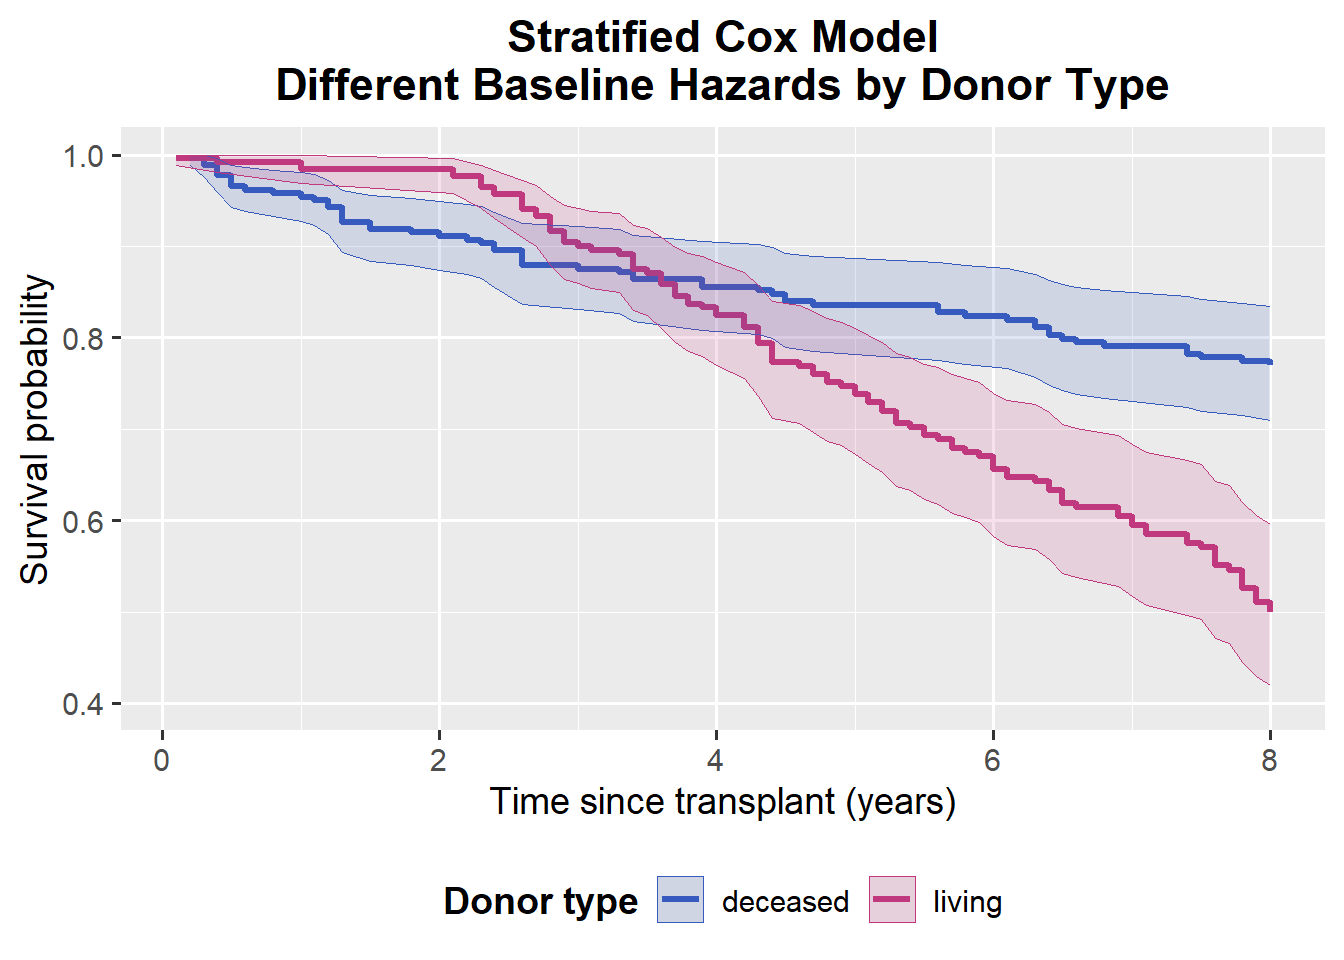
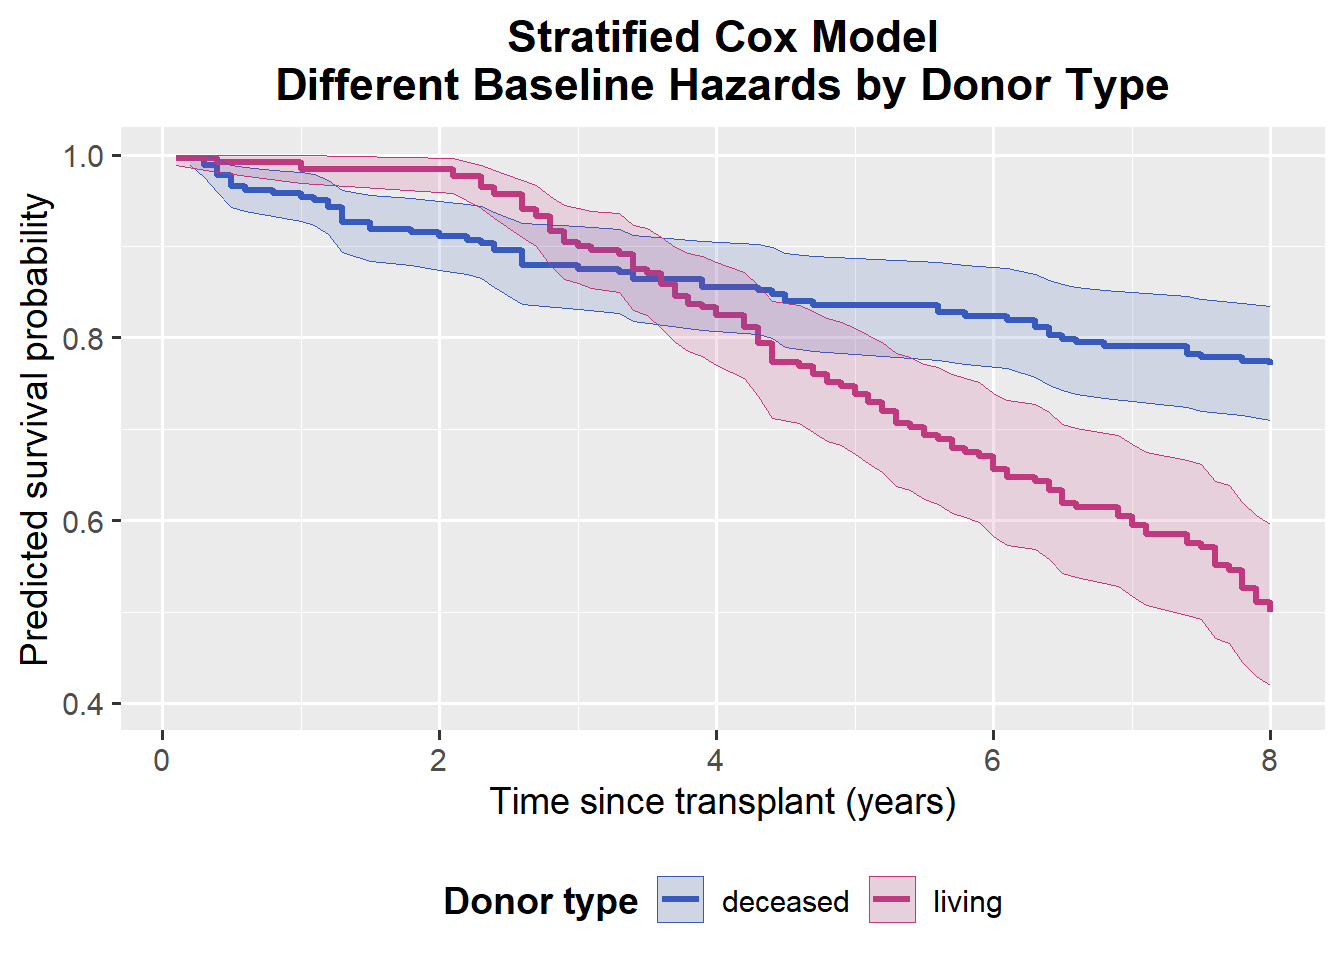
Complete Lecture 3

Changed region(s): [[0.0, 0.1875, 0.0625, 0.6875]]

diff --git a/docs/lecture-03-non-ph-cox.html b/docs/lecture-03-non-ph-cox.html
@@ -359,7 +359,7 @@ Note
 <section id="example-handling-non-proportional-hazards-using-stratified-cox-model" class="level2" data-number="5">
 <h2 data-number="5" class="anchored" data-anchor-id="example-handling-non-proportional-hazards-using-stratified-cox-model"><span class="header-section-number">5</span> Example: Handling Non-Proportional Hazards Using Stratified Cox Model</h2>
 <p>We are interested in whether time to graft failure after kidney transplantation differs by donor type (living vs deceased), after adjusting for important clinical factors.</p>
-<p>We begin by fitting a standard Cox proportional hazards model, then check the PH assumption. If the PH assumption is violated for donor type, we refit the model using stratification by donor type.</p>
+<p>We begin by fitting a standard Cox proportional hazards model, then check the PH assumption. If the PH assumption is violated for any categorical covariate in the model, we refit the model using stratification by that covariate.</p>
 <div class="cell">
 <details class="code-fold">
 <summary>Show R code</summary>
@@ -556,7 +556,7 @@ What about donor type?
 <span id="cb6-27"><a href="#cb6-27" aria-hidden="true" tabindex="-1"></a>  <span class="fu">labs</span>(</span>
 <span id="cb6-28"><a href="#cb6-28" aria-hidden="true" tabindex="-1"></a>    <span class="at">title =</span> <span class="st">"Stratified Cox Model</span><span class="sc">\n</span><span class="st">Different Baseline Hazards by Donor Type"</span>,</span>
 <span id="cb6-29"><a href="#cb6-29" aria-hidden="true" tabindex="-1"></a>    <span class="at">x =</span> <span class="st">"Time since transplant (years)"</span>,</span>
-<span id="cb6-30"><a href="#cb6-30" aria-hidden="true" tabindex="-1"></a>    <span class="at">y =</span> <span class="st">"Survival probability"</span>,</span>
+<span id="cb6-30"><a href="#cb6-30" aria-hidden="true" tabindex="-1"></a>    <span class="at">y =</span> <span class="st">"Predicted survival probability"</span>,</span>
 <span id="cb6-31"><a href="#cb6-31" aria-hidden="true" tabindex="-1"></a>    <span class="at">colour =</span> <span class="st">"Donor type"</span>,</span>
 <span id="cb6-32"><a href="#cb6-32" aria-hidden="true" tabindex="-1"></a>    <span class="at">fill   =</span> <span class="st">"Donor type"</span></span>
 <span id="cb6-33"><a href="#cb6-33" aria-hidden="true" tabindex="-1"></a>  ) <span class="sc">+</span></span>
@@ -1302,7 +1302,7 @@ window.document.addEventListener("DOMContentLoaded", function (event) {
 <span id="cb8-122"><a href="#cb8-122" aria-hidden="true" tabindex="-1"></a></span>
 <span id="cb8-123"><a href="#cb8-123" aria-hidden="true" tabindex="-1"></a></span>
 <span id="cb8-124"><a href="#cb8-124" aria-hidden="true" tabindex="-1"></a>We begin by fitting a standard Cox proportional hazards model, then check the PH assumption.</span>
-<span id="cb8-125"><a href="#cb8-125" aria-hidden="true" tabindex="-1"></a>If the PH assumption is violated for donor type, we refit the model using stratification by donor type.</span>
+<span id="cb8-125"><a href="#cb8-125" aria-hidden="true" tabindex="-1"></a>If the PH assumption is violated for any categorical covariate in the model, we refit the model using stratification by that covariate.</span>
 <span id="cb8-126"><a href="#cb8-126" aria-hidden="true" tabindex="-1"></a></span>
 <span id="cb8-127"><a href="#cb8-127" aria-hidden="true" tabindex="-1"></a><span class="in">```{r, message=FALSE, warning=FALSE}</span></span>
 <span id="cb8-128"><a href="#cb8-128" aria-hidden="true" tabindex="-1"></a><span class="in">library(survival)</span></span>
@@ -1434,7 +1434,7 @@ window.document.addEventListener("DOMContentLoaded", function (event) {
 <span id="cb8-254"><a href="#cb8-254" aria-hidden="true" tabindex="-1"></a><span class="in">  labs(</span></span>
 <span id="cb8-255"><a href="#cb8-255" aria-hidden="true" tabindex="-1"></a><span class="in">    title = "Stratified Cox Model\nDifferent Baseline Hazards by Donor Type",</span></span>
 <span id="cb8-256"><a href="#cb8-256" aria-hidden="true" tabindex="-1"></a><span class="in">    x = "Time since transplant (years)",</span></span>
-<span id="cb8-257"><a href="#cb8-257" aria-hidden="true" tabindex="-1"></a><span class="in">    y = "Survival probability",</span></span>
+<span id="cb8-257"><a href="#cb8-257" aria-hidden="true" tabindex="-1"></a><span class="in">    y = "Predicted survival probability",</span></span>
 <span id="cb8-258"><a href="#cb8-258" aria-hidden="true" tabindex="-1"></a><span class="in">    colour = "Donor type",</span></span>
 <span id="cb8-259"><a href="#cb8-259" aria-hidden="true" tabindex="-1"></a><span class="in">    fill   = "Donor type"</span></span>
 <span id="cb8-260"><a href="#cb8-260" aria-hidden="true" tabindex="-1"></a><span class="in">  ) +</span></span>
@@ -1564,7 +1564,8 @@ window.document.addEventListener("DOMContentLoaded", function (event) {
 <span id="cb8-384"><a href="#cb8-384" aria-hidden="true" tabindex="-1"></a><span class="in">)</span></span>
 <span id="cb8-385"><a href="#cb8-385" aria-hidden="true" tabindex="-1"></a></span>
 <span id="cb8-386"><a href="#cb8-386" aria-hidden="true" tabindex="-1"></a><span class="in">```</span></span>
-<span id="cb8-387"><a href="#cb8-387" aria-hidden="true" tabindex="-1"></a></span></code><button title="Copy to Clipboard" class="code-copy-button" data-in-quarto-modal=""><i class="bi"></i></button></pre></div>
+<span id="cb8-387"><a href="#cb8-387" aria-hidden="true" tabindex="-1"></a></span>
+<span id="cb8-388"><a href="#cb8-388" aria-hidden="true" tabindex="-1"></a></span></code><button title="Copy to Clipboard" class="code-copy-button" data-in-quarto-modal=""><i class="bi"></i></button></pre></div>
 </div></div></div></div></div>
 </div> <!-- /content -->
 
